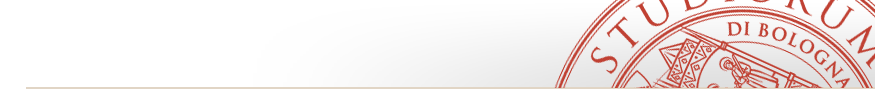
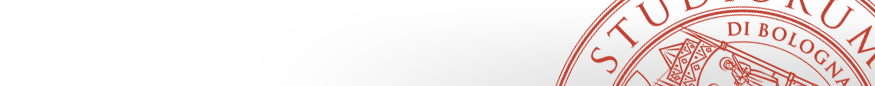
nav bg

Changed region(s): [[0.0309, 0.0698, 1.0, 1.0], [0.9566, 0.0698, 1.0, 0.186], [0.9566, 0.186, 0.9874, 0.2093]]

diff --git a/style.css b/style.css
@@ -10,12 +10,33 @@
   padding: 15px;
   width: auto;
 }
+.title{
+
+}
+header{
+    padding-top:10px;
+    /*background: url('res/header.png') no-repeat;
+    background-position: right top;
+    background-size: contain;*/
+    background: linear-gradient(to bottom, rgb(191, 22, 22), rgba(0, 0, 0, 0))
+
+}
+
+body {
+    position: relative;
+    overflow-x: hidden;
+    /*padding-top: 15px;*/
+
+}
+body,
+html { height: 100%;}
 
 @font-face {
   font-family: 'TrajanProRegular';
   src: url('fonts/TrajanProRegular.eot');
   src: local('TrajanProRegular'), url('fonts/TrajanProRegular.woff') format('woff'), url('fonts/TrajanProRegular.ttf') format('truetype');
 }
+
 /* use this class to attach this font to any element i.e. <p class="fontsforweb_fontid_13972">Text with this font applied</p> */
 .myTrajanFont {
   font-family: 'TrajanProRegular' !important;
@@ -89,14 +110,7 @@
 }
 
 
-body {
-    position: relative;
-    overflow-x: hidden;
-    padding-top: 15px;
 
-}
-body,
-html { height: 100%;}
 .nav .open > a,
 .nav .open > a:hover,
 .nav .open > a:focus {background-color: transparent;}
@@ -125,7 +139,7 @@ html { height: 100%;}
     margin-left: -220px;
     overflow-y: auto;
     overflow-x: hidden;
-    background: #1a1a1a;
+    background: rgba(36, 38, 38, 0.77);
     -webkit-transition: all 0.5s ease;
     -moz-transition: all 0.5s ease;
     -o-transition: all 0.5s ease;
